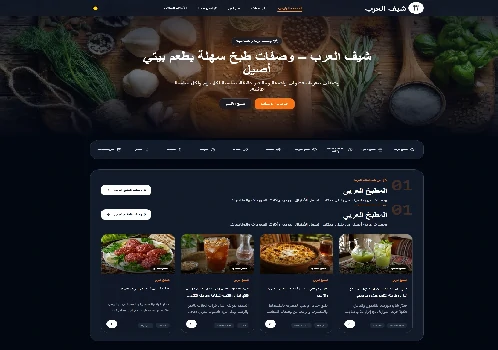
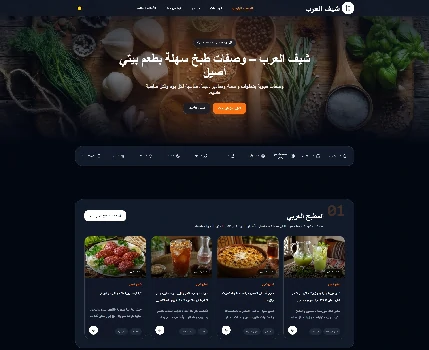
edit img chefalarab and skills remove Angular & OOP

diff --git a/index.html b/index.html
@@ -217,10 +217,10 @@
                 </div>
     
                  <!-- Angular  -->
-                <div class="col-md-4 col-sm-6">
+                <!-- <div class="col-md-4 col-sm-6">
                     <h3 class="h3-Skills">Angular</h3>
                     <img class=" imgSkills  img_indicators   img-responsive" src="assets/img/Skills/angular.webp" alt="Angular" width="70" height="70">
-                </div>
+                </div> -->
     
                 <!-- Next.js -->
                 <div class="col-md-4 col-sm-6">
@@ -253,10 +253,10 @@
                 </div>
     
                 <!-- OOP -->
-                <div class="col-md-4 col-sm-6">
+                <!-- <div class="col-md-4 col-sm-6">
                     <h3 class="h3-Skills">OOP</h3>
                     <img class=" imgSkills  img_indicators   img-responsive" src="assets/img/Skills/OOP.webp" alt="OOP" width="70" height="70">
-                </div>
+                </div> -->
     
                 <!-- HTML -->
                 <div class="col-md-4 col-sm-6">
